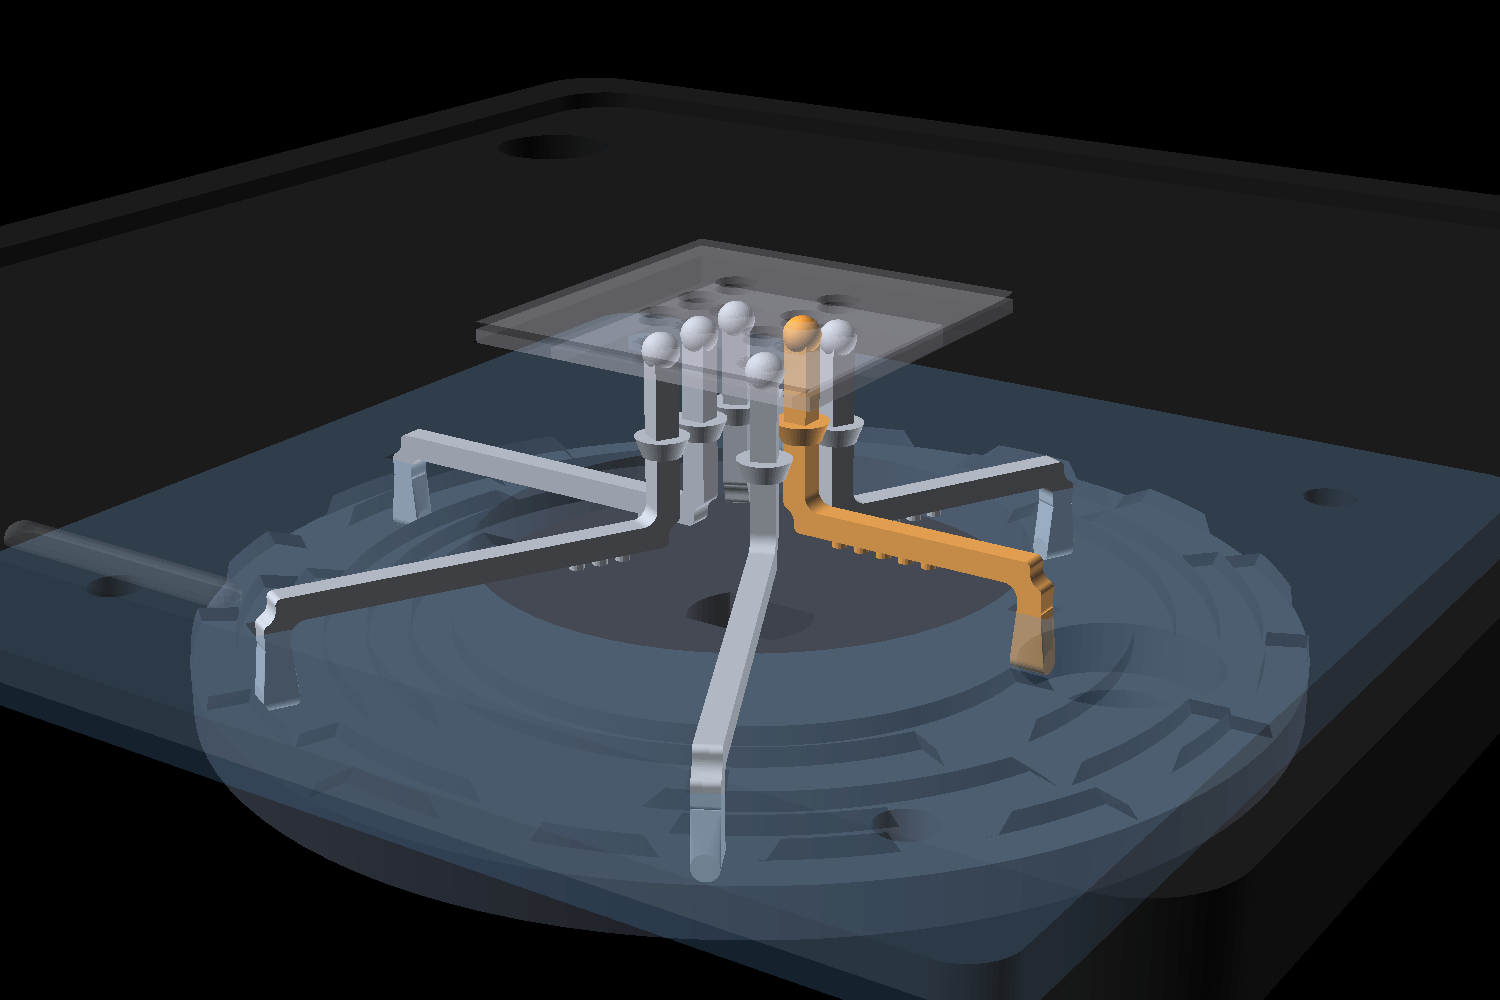
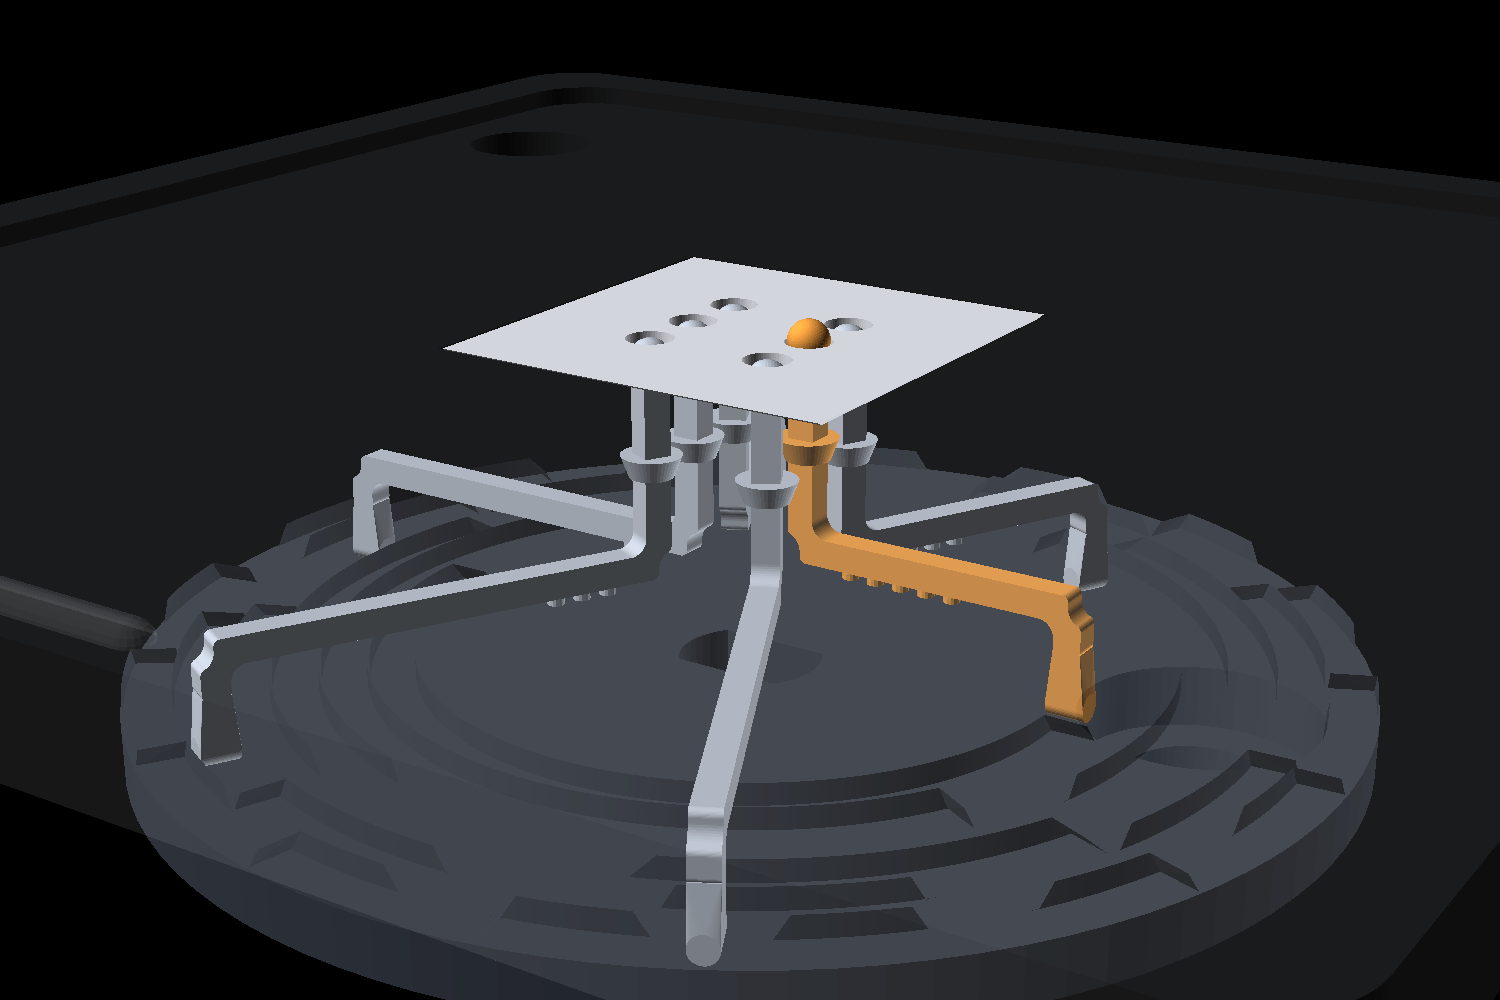
docs: opaque reading surface, and fix the resin tile height
The resin tile was drawn 0.8mm high. insert_h is defined as the reading-surface
height above the plate underside, so the tile belongs AT plate_under_y; the extra
(4 - 3.2) put its top face level with the plate rim rather than inside the finger
recess, and hid the very thing the picture is for.

The tile is now opaque, which is what makes the point readable: five dots sit
flush and show only as holes, and the sixth stands proud. The comb is left out of
these two views so the cam reads as solid and its track profile stays visible.

diff --git a/README.md b/README.md
@@ -48,7 +48,8 @@ on the track. Its other end carries the braille dot.
 
 *The cam disc below, the six linkages above it, and the reading surface on top.
 One linkage is orange. Its foot stands on a high section of its track, so its dot
-is raised. The other five are down.*
+is raised. The other five are down. The comb is left out of this view, and the
+enclosure is ghosted.*
 
 When the foot meets a high section, the linkage moves up. The dot rises above the
 reading surface. When the foot meets a low section, the linkage moves down. The
@@ -56,10 +57,11 @@ dot becomes flush with the surface.
 
 A return spring holds each linkage down against the disc.
 
-![A foot on the cam track](docs/img/foot_on_track.png)
+![One dot raised above the reading surface](docs/img/dot_raised.png)
 
-*A close view of the same orange linkage. Its foot rests on a raised section of
-the track. The grey linkage behind it sits on a low section.*
+*The reading surface, seen close. Five dots are down and sit flush, so a finger
+feels only the holes. The sixth dot stands 0.8 mm proud. A reader feels that
+difference, and that difference is the character.*
 
 ### One motor for six dots
 
